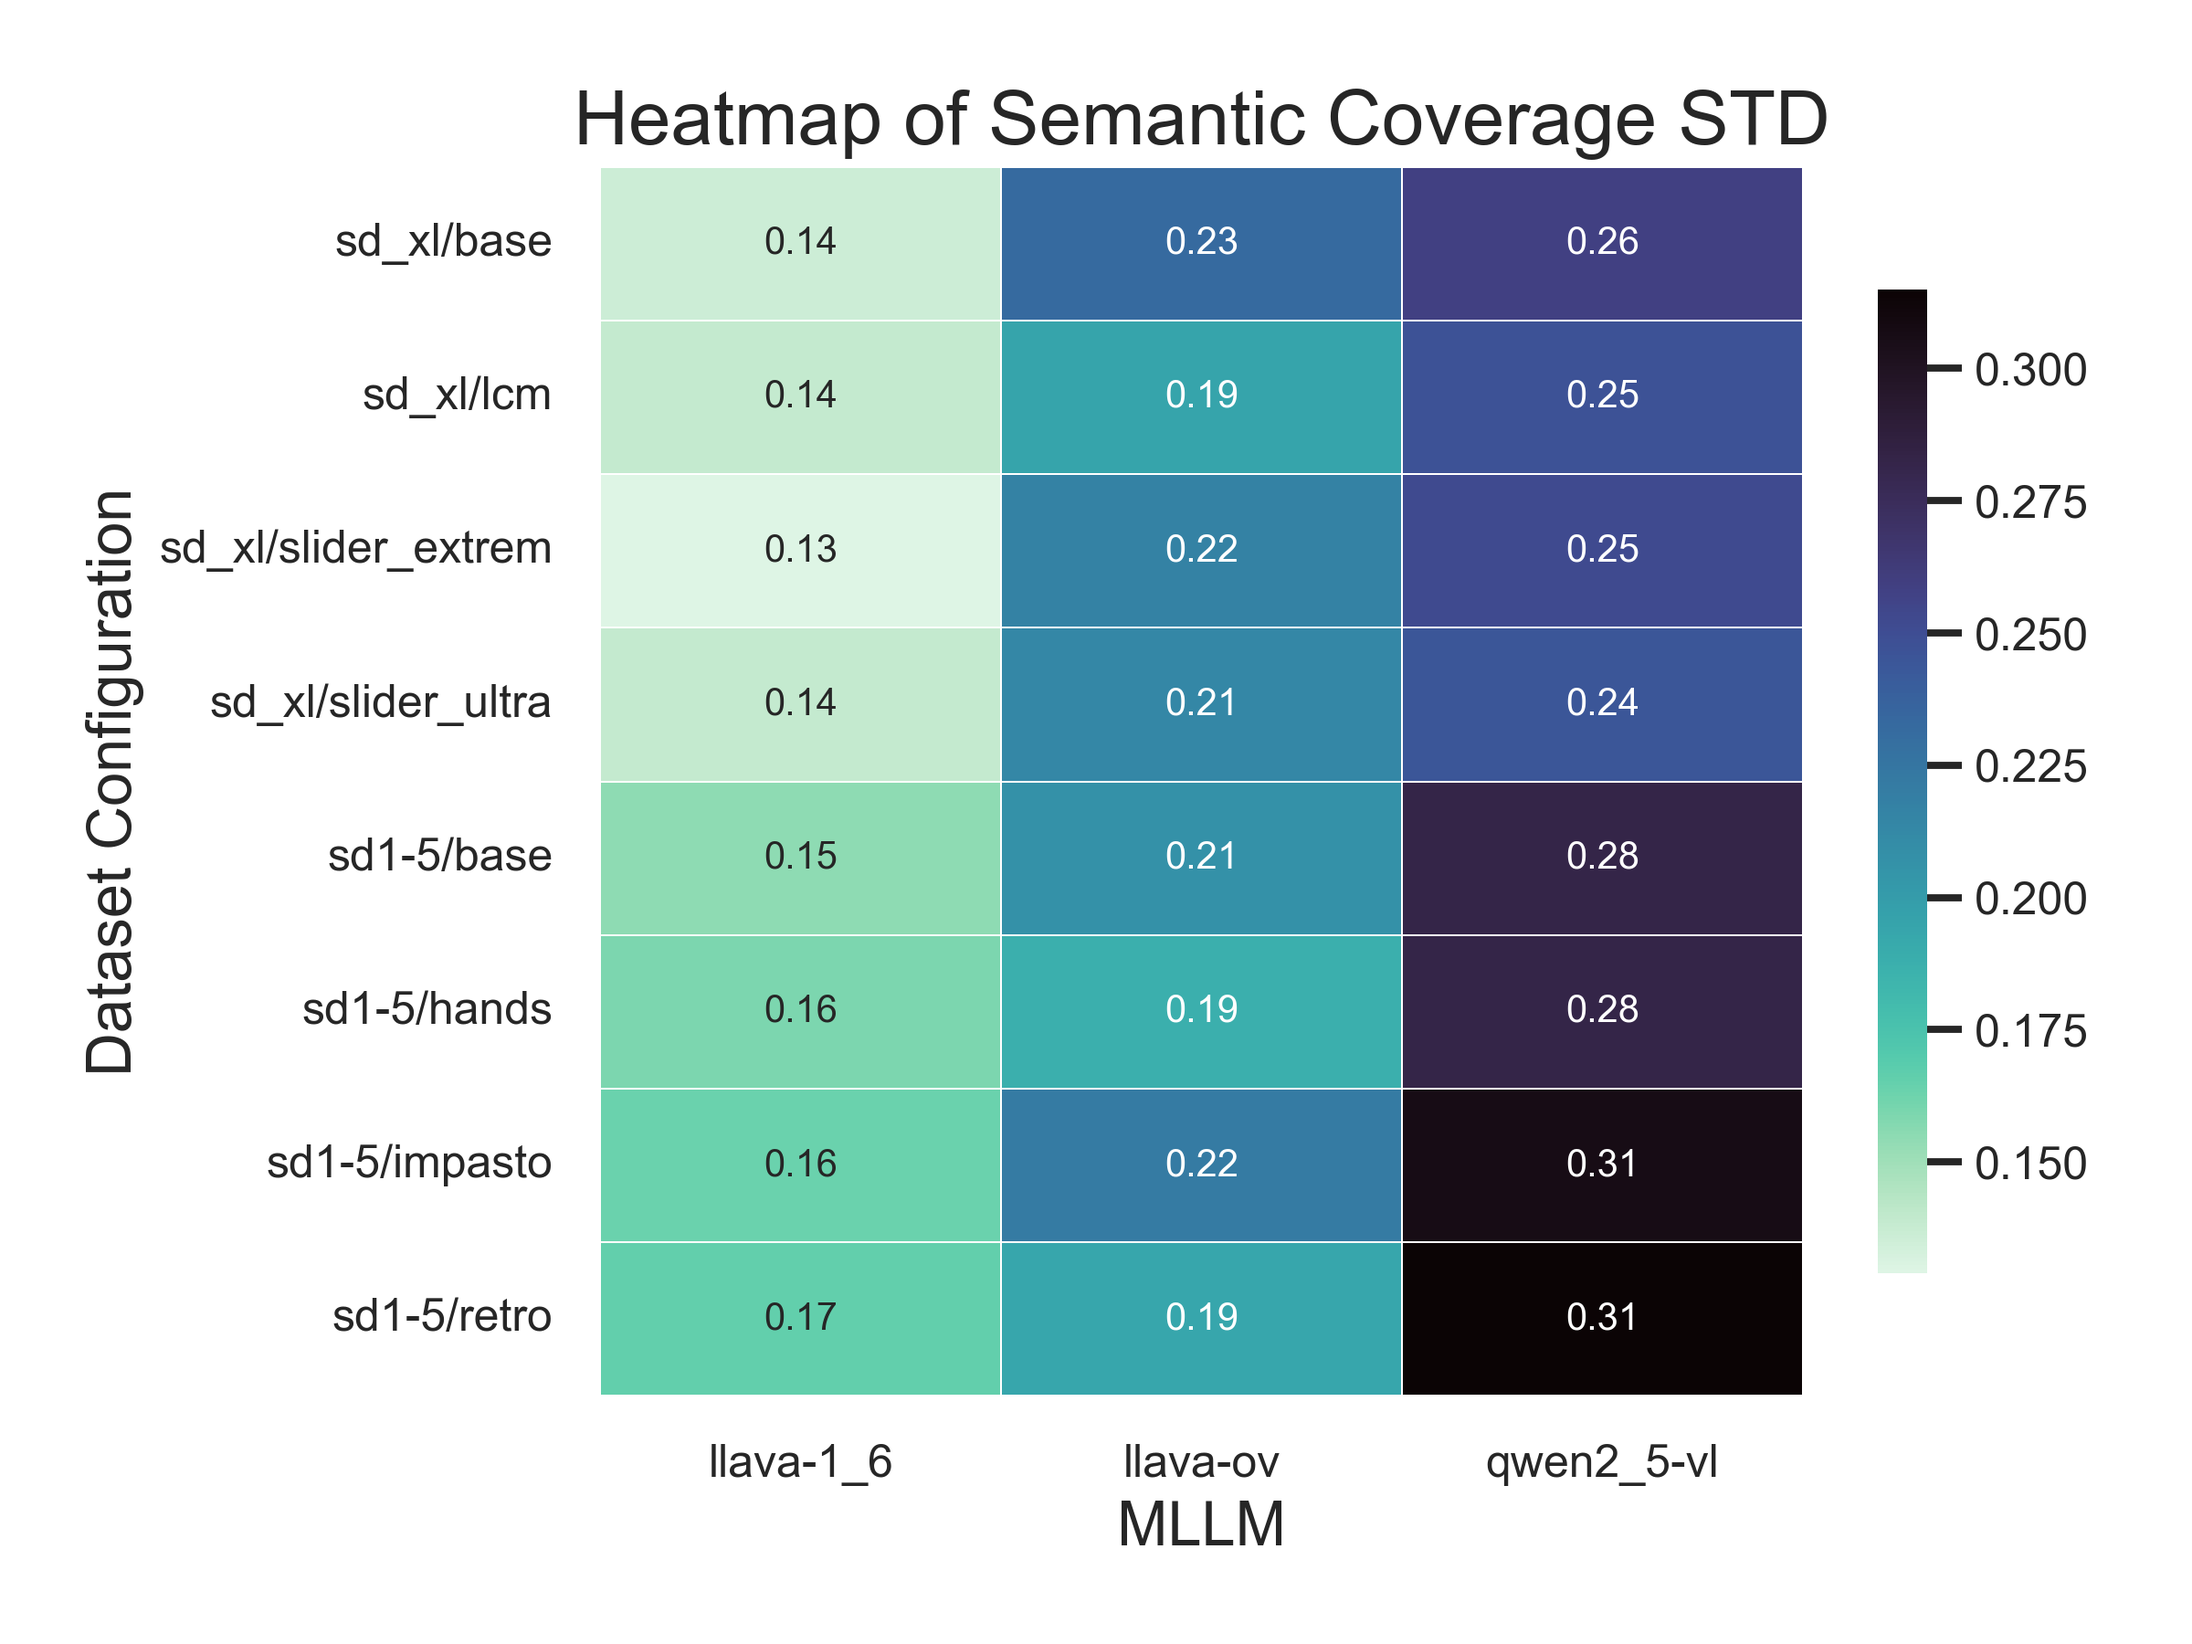
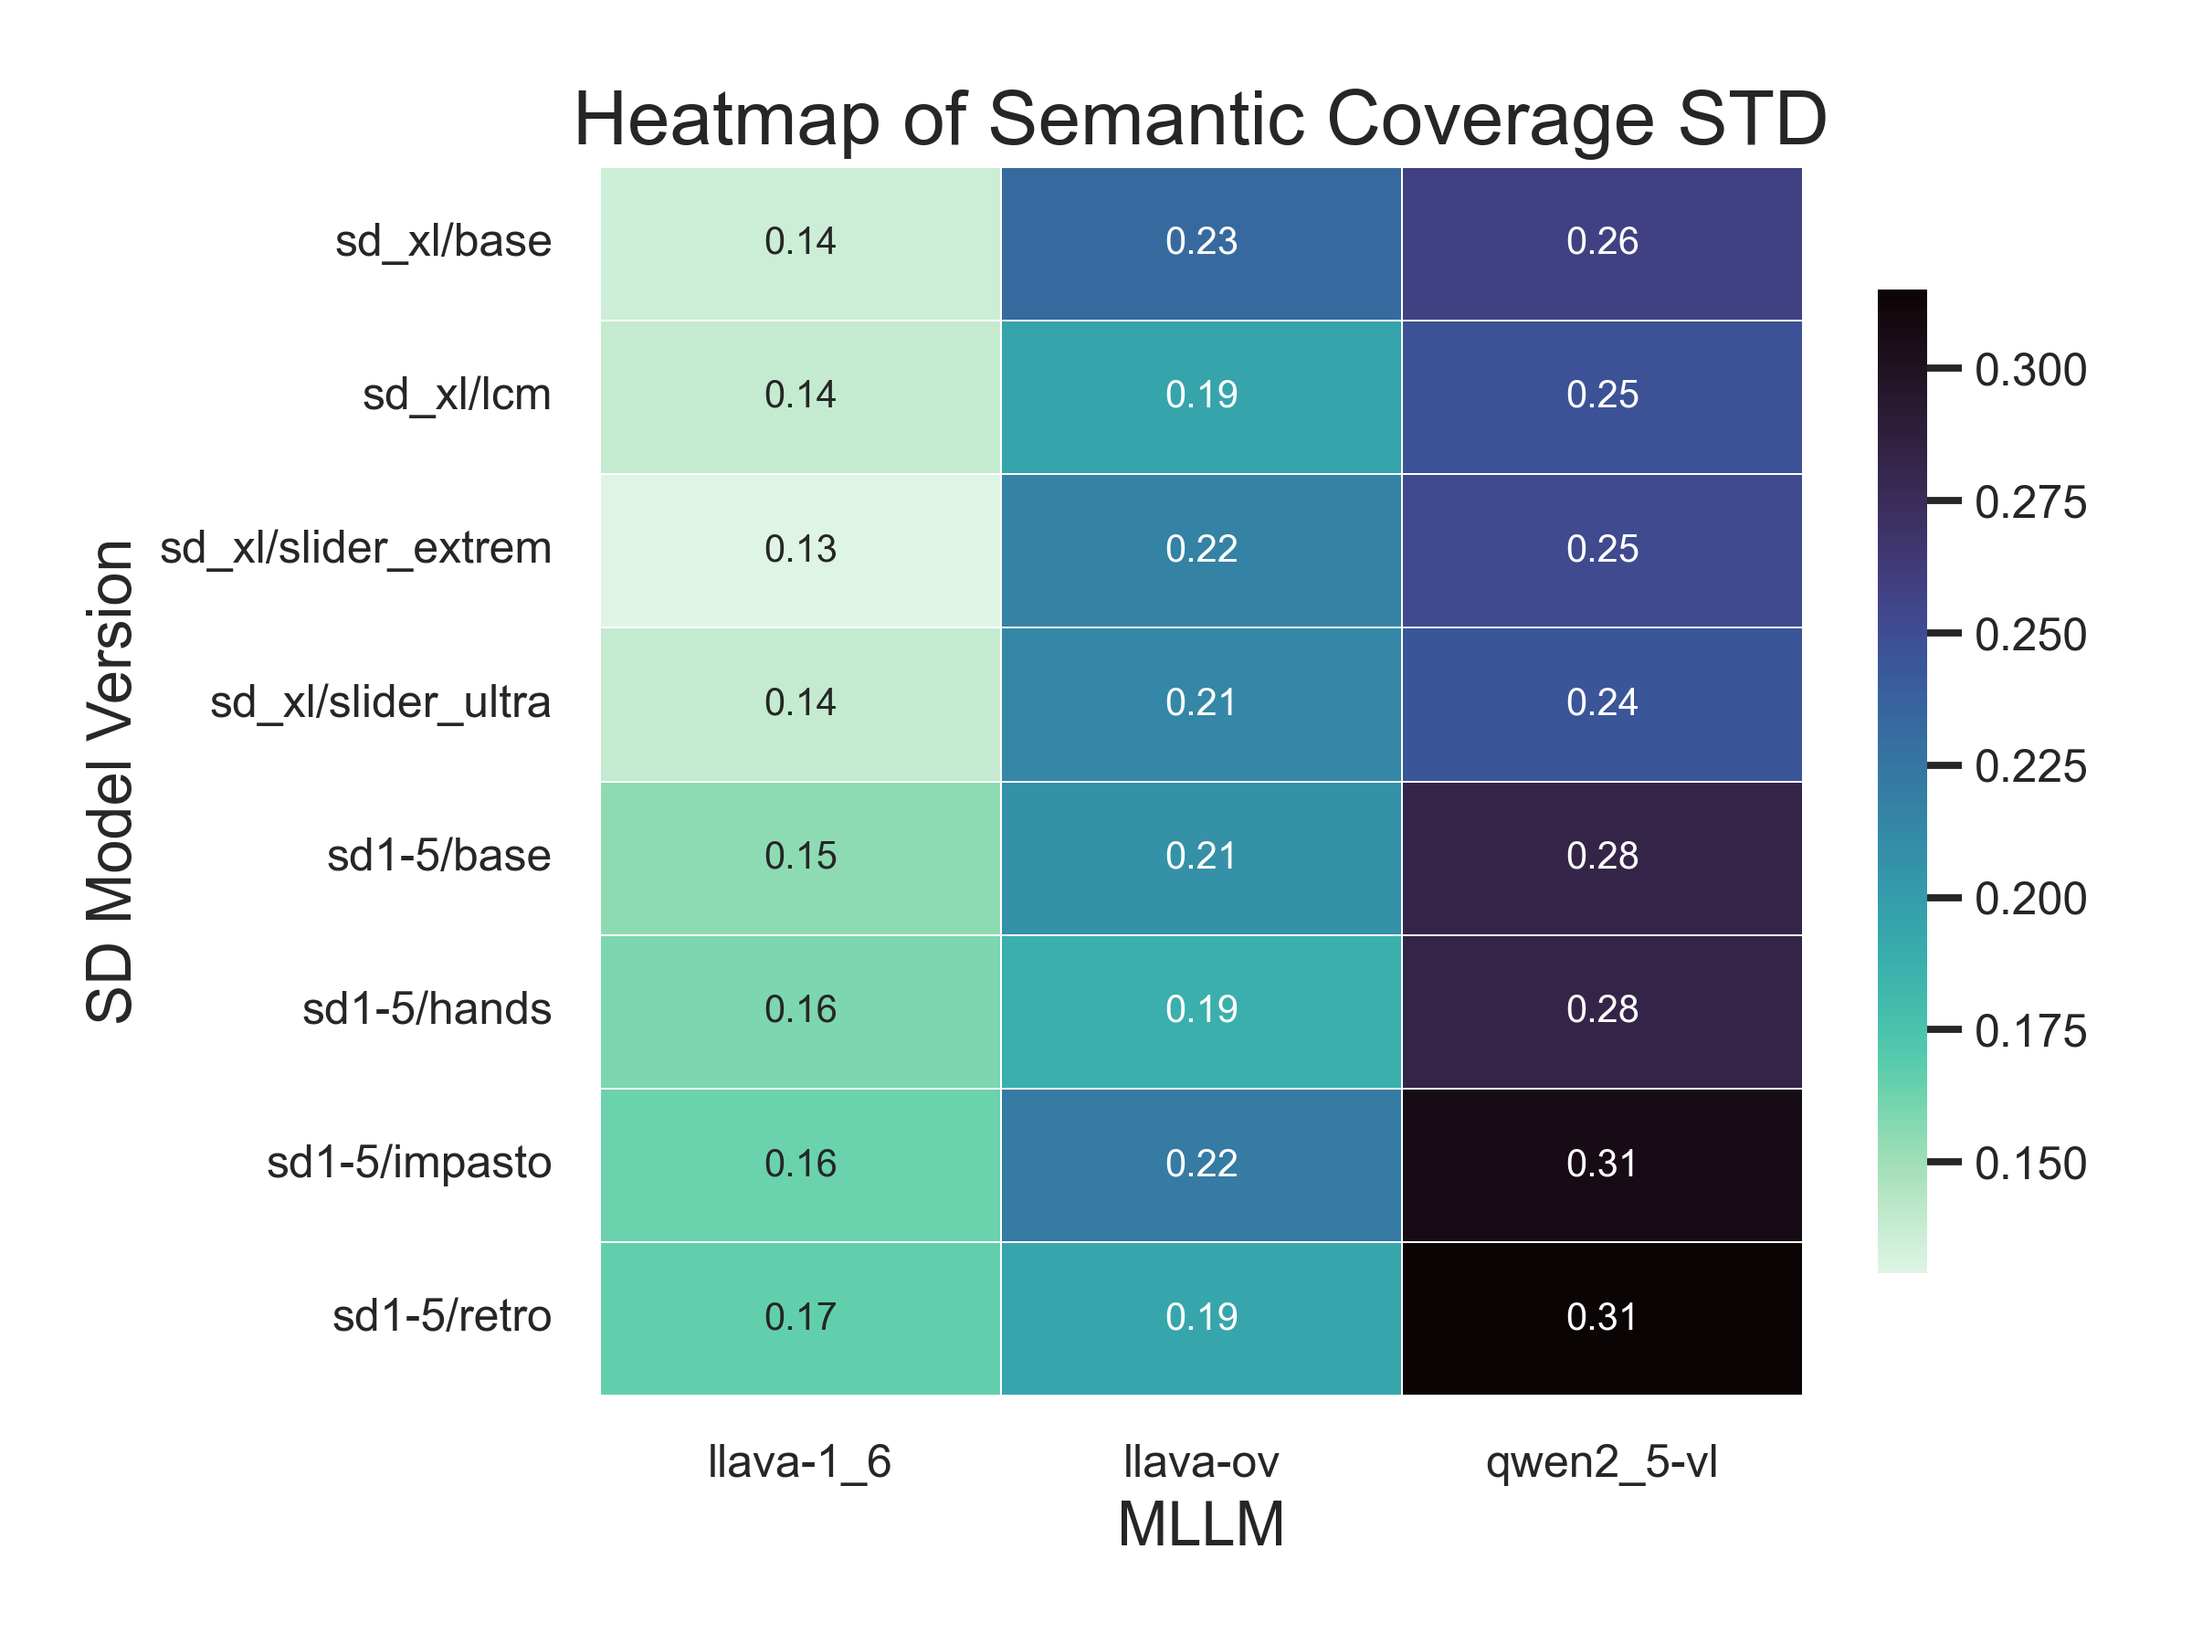
complete version

diff --git a/plot_summary_charts.py b/plot_summary_charts.py
@@ -133,7 +133,7 @@ df['subconfig'] = pd.Categorical(df['subconfig'], categories=cat_order, ordered=
 # 1. Bar plots (mean ± std) for semantic_coverage & relation_validity
 # --------------------------------------------------
 
-bar_metrics = ["semantic_coverage", "relation_validity"]
+bar_metrics = ["semantic_coverage", "relation_validity", "style_score"]
 for metric in bar_metrics:
     plt.figure(figsize=(16, 8))
     metric_df = df[df['metric'] == metric]
@@ -143,7 +143,7 @@ for metric in bar_metrics:
     sns.despine(ax=ax)
     ax.set_ylabel("Mean Score")
     plt.title(f"{metric_labels[metric]} across Subconfigs and MLLMs")
-    ax.set_xlabel("Dataset Configuration")
+    ax.set_xlabel("SD Model Version")
     plt.xticks(rotation=45, ha='right')
     plt.legend(title='MLLM', loc='upper right', bbox_to_anchor=(1.15, 1.0), frameon=False)
     Path('summary_plots').mkdir(exist_ok=True)
@@ -154,7 +154,7 @@ for metric in bar_metrics:
 # --------------------------------------------------
 # 2. Heatmaps for semantic_coverage and relation_validity (mean & std)
 # --------------------------------------------------
-heat_metrics = ["semantic_coverage", "relation_validity"]
+heat_metrics = ["semantic_coverage", "relation_validity", "style_score"]
 for metric in heat_metrics:
     for stat in ['mean', 'std']:
         pivot = df[df['metric'] == metric].pivot(index='subconfig', columns='tag', values=stat).loc[cat_order]
@@ -164,7 +164,7 @@ for metric in heat_metrics:
                     annot_kws={'size':10}, linewidths=0.4, linecolor='white', cbar_kws={'shrink':0.8})
         plt.title(f"Heatmap of {metric_labels[metric]} {stat.upper()}")
         plt.xlabel('MLLM')
-        plt.ylabel('Dataset Configuration')
+        plt.ylabel('SD Model Version')
         plt.tight_layout()
         plt.savefig(f"summary_plots/{metric}_{stat}_heatmap.png", dpi=300)
         plt.close()
@@ -187,10 +187,12 @@ plt.savefig('summary_plots/count_line.png', dpi=300)
 plt.close()
 
 # --------------------------------------------------
-# 4. Violin plot for style_score distributions (aggregate)
+# 4. Violin plot for semantic_coverage, relation_validity, style_score distributions (aggregate)
 #     Need raw data
 # --------------------------------------------------
 all_style_records = []
+all_coverage_records = []
+all_relation_records = []
 for base in results_bases:
     for tag in results_tags:
         scores = load_scores(base, tag)
@@ -201,16 +203,53 @@ for base in results_bases:
                 all_style_records.append({'subconfig': subconfig_labels[results_bases.index(base)],
                                            'tag': tag,
                                            'style_score': metrics_dict['style_score']})
+            if 'semantic_coverage' in metrics_dict:
+                all_coverage_records.append({'subconfig': subconfig_labels[results_bases.index(base)],
+                                           'tag': tag,
+                                           'semantic_coverage': metrics_dict['semantic_coverage']})
+            if 'relation_validity' in metrics_dict:
+                all_relation_records.append({'subconfig': subconfig_labels[results_bases.index(base)],
+                                           'tag': tag,
+                                           'relation_validity': metrics_dict['relation_validity']})
+
+coverage_df = pd.DataFrame(all_coverage_records)
+relation_df = pd.DataFrame(all_relation_records)
 style_df = pd.DataFrame(all_style_records)
+
+# style_score
 plt.figure(figsize=(8, 6))
 sns.violinplot(data=style_df, x='tag', y='style_score', palette=colors, inner='quartile', alpha=0.7,
                linewidth=0.8)
 sns.despine()
-plt.title('Style Score Distribution across MLLMs (All Dataset Configurations)')
+plt.title('Style Score Distribution')
 plt.xlabel('MLLM')
 plt.ylabel('Style Score')
 plt.tight_layout()
 plt.savefig('summary_plots/style_score_violin.png', dpi=300)
+plt.close()
+
+# semantic_coverage
+plt.figure(figsize=(8, 6))
+sns.violinplot(data=coverage_df, x='tag', y='semantic_coverage', palette=colors, inner='quartile', alpha=0.7,
+               linewidth=0.8)
+sns.despine()
+plt.title('Semantic Coverage Distribution')
+plt.xlabel('MLLM')
+plt.ylabel('Semantic Coverage')
+plt.tight_layout()
+plt.savefig('summary_plots/semantic_coverage_violin.png', dpi=300)
+plt.close()
+
+# relation_validity
+plt.figure(figsize=(8, 6))
+sns.violinplot(data=relation_df, x='tag', y='relation_validity', palette=colors, inner='quartile', alpha=0.7,
+               linewidth=0.8)
+sns.despine()
+plt.title('Relation Validity Distribution')
+plt.xlabel('MLLM')
+plt.ylabel('Relation Validity')
+plt.tight_layout()
+plt.savefig('summary_plots/relation_validity_violin.png', dpi=300)
 plt.close()
 
 # --------------------------------------------------
